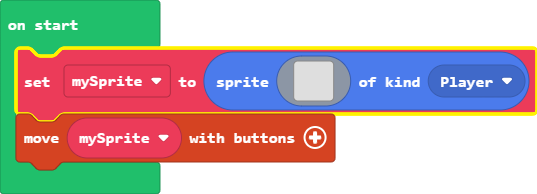
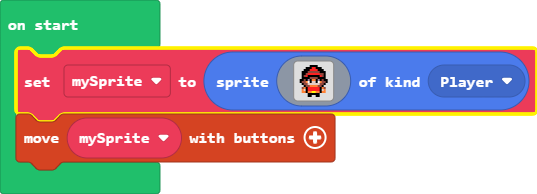
Update main.blocks, main.ts

Changed region(s): [[0.5363, 0.3402, 0.6257, 0.5258]]

diff --git a/main.ts b/main.ts
@@ -1,19 +1,19 @@
 let mySprite = sprites.create(img`
-    . . . . . . . . . . . . . . . . 
-    . . . . . . . . . . . . . . . . 
-    . . . . . . . . . . . . . . . . 
-    . . . . . . . . . . . . . . . . 
-    . . . . . . . . . . . . . . . . 
-    . . . . . . . . . . . . . . . . 
-    . . . . . . . . . . . . . . . . 
-    . . . . . . . . . . . . . . . . 
-    . . . . . . . . . . . . . . . . 
-    . . . . . . . . . . . . . . . . 
-    . . . . . . . . . . . . . . . . 
-    . . . . . . . . . . . . . . . . 
-    . . . . . . . . . . . . . . . . 
-    . . . . . . . . . . . . . . . . 
-    . . . . . . . . . . . . . . . . 
-    . . . . . . . . . . . . . . . . 
+    . . . . . . f f f f . . . . . . 
+    . . . . f f f 2 2 f f f . . . . 
+    . . . f f f 2 2 2 2 f f f . . . 
+    . . f f f e e e e e e f f f . . 
+    . . f f e 2 2 2 2 2 2 e e f . . 
+    . . f e 2 f f f f f f 2 e f . . 
+    . . f f f f e e e e f f f f . . 
+    . f f e f b f 4 4 f b f e f f . 
+    . f e e 4 1 f d d f 1 4 e e f . 
+    . . f e e d d d d d d e e f . . 
+    . . . f e e 4 4 4 4 e e f . . . 
+    . . e 4 f 2 2 2 2 2 2 f 4 e . . 
+    . . 4 d f 2 2 2 2 2 2 f d 4 . . 
+    . . 4 4 f 4 4 5 5 4 4 f 4 4 . . 
+    . . . . . f f f f f f . . . . . 
+    . . . . . f f . . f f . . . . . 
     `, SpriteKind.Player)
 controller.moveSprite(mySprite)
